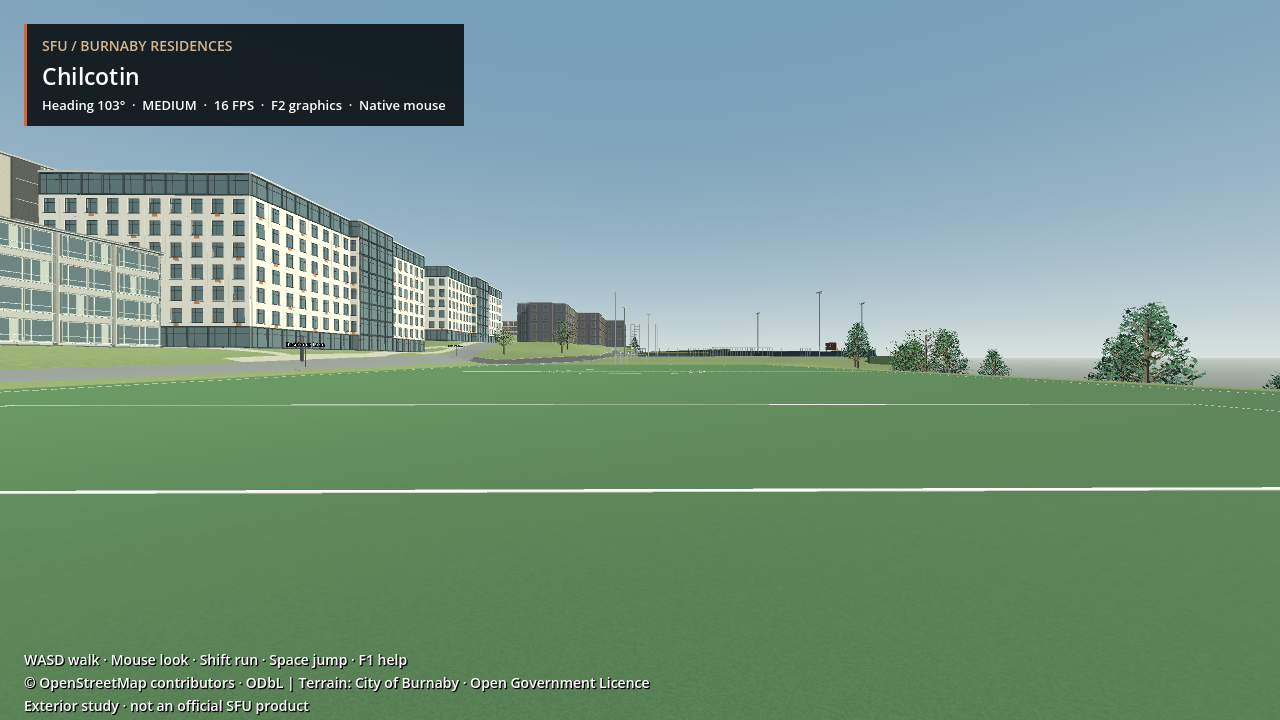
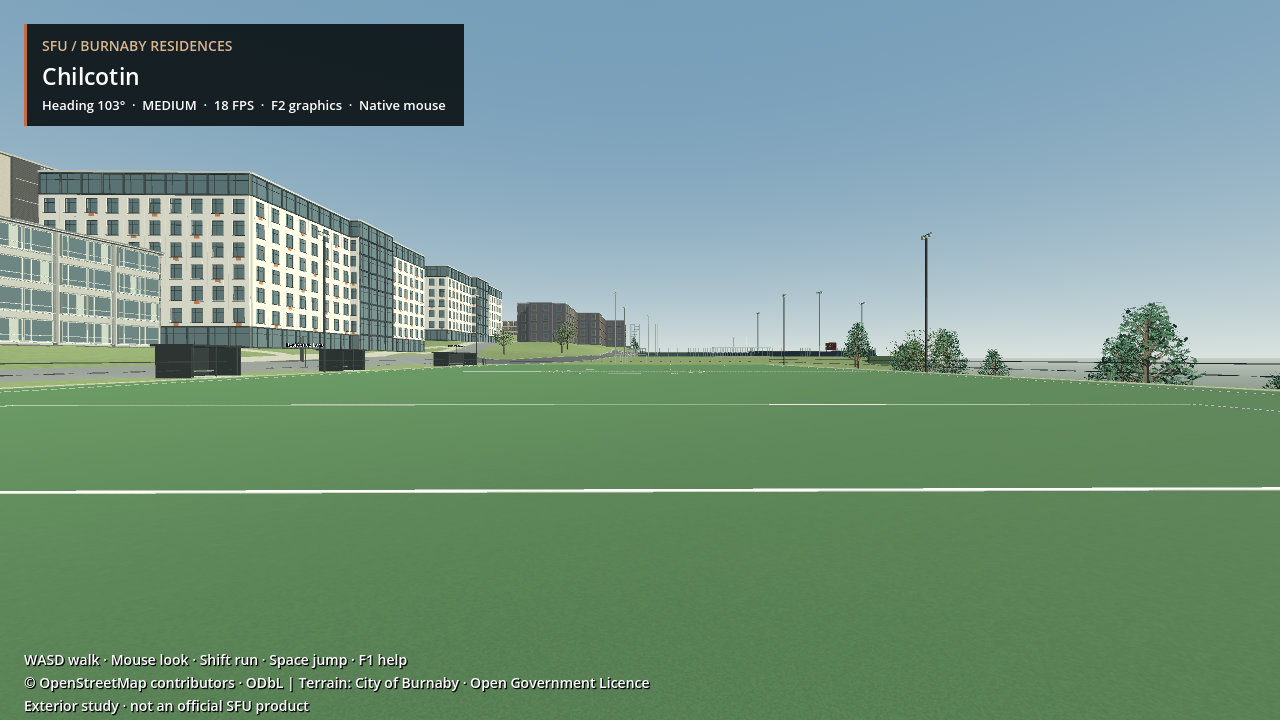
Add photo-referenced Field4 shelter, front fence and walkable apron

diff --git a/scripts/build_field4_shelter_grade.py b/scripts/build_field4_shelter_grade.py
@@ -1,0 +1,23 @@
+"""Separate reversible finish grade for Field4 sideline shelters, dimensions estimated."""
+import json,math
+from pathlib import Path
+from build_parking_grade import distance
+r=Path(__file__).resolve().parents[1];g=json.loads((r/'game/data/terrain_grid.json').read_text());g['heights']+=json.loads((r/'game/data/field2_terrain_extension.json').read_text())['heights'];g['depth']=len(g['heights'])//g['width']
+for name in ['parking_grade','beedie_grade','field4_grade','field2_grade']:
+ for k,h in json.loads((r/'game/data'/f'{name}.json').read_text())['changes']:g['heights'][k]=h
+field=json.loads((r/'game/data/field4.json').read_text());a=field['points'][3];b=field['points'][2];length=math.dist(a,b);u=[(b[i]-a[i])/length for i in range(2)];v=[-u[1],u[0]]
+polys=[]
+for along,size in [(46,5),(67,5),(108,17)]:
+ polys.append([[a[i]+u[i]*(along+x)+v[i]*z for i in range(2)] for x,z in [(-size/2-0.3,-6.8),(size/2+0.3,-6.8),(size/2+0.3,-1.3),(-size/2-0.3,-1.3)]])
+buildings=json.loads((r/'game/data/buildings.json').read_text());changes=[]
+for k,h in enumerate(g['heights']):
+ x=g['origin_x']+k%g['width']*g['step'];z=g['origin_z']+k//g['width']*g['step']
+ if not -10<x<85 or not 62<z<100:continue
+ d=min(distance(x,z,p) for p in polys)
+ if d>=5:continue
+ bd=min(distance(x,z,b['footprint']) for b in buildings)
+ if bd<=4:continue
+ t=max(0,min(1,1-d/5));t=t*t*(3-2*t);guard=max(0,min(1,(bd-4)/3));t*=guard*guard*(3-2*guard)
+ changes.append([k,round(h+(field['height_estimate_m']-h)*t,4)])
+(r/'game/data/field4_shelter_grade.json').write_text(json.dumps({'status':'estimated sideline grading, original grid/pads untouched','changes':changes},separators=(',',':')))
+print('Shelter grading samples',len(changes))

diff --git a/docs/PHASE2_COMPLETION_AUDIT.md b/docs/PHASE2_COMPLETION_AUDIT.md
@@ -1,0 +1,35 @@
+# Consolidated exterior completion audit — 2026-10-18
+
+Latest user instruction: work through all deferred remarks; preserve accepted geography, approved East/West and townhouse architecture, exact Godot/GDScript/Compatibility/WSL2 stack, working first-person mouse. This audit reconciles historical notes with current code; old pending wording is not proof something remains undone. Check off only after implementation and verification. See individual photo-review documents for evidence, uncertainty and licensing.
+
+| Item | Actual baseline / remaining action | State |
+|---|---|---|
+| Mouse, infinite rotation, fullscreen primary monitor | User confirmed working; preserve host adapter and movement forwarding | Preserve |
+| Phase1 promotion / obsolete Markdown cleanup | Already completed, rollback and external backups retained | Complete |
+| Terrain smoothness / original hillside | Source-based smoothing and local grades implemented; refine abrupt forecourts and approaches without global flattening | Partial |
+| Field4 black walk-in shelter | Exact residence-side structure identification; panorama shows long dark end shelter and smaller central booths | Research then implement |
+| Field4 realism | Mapped turf/goals only; sideline concrete, fence, floodlights, seating/shelters, secondary markings, tree edge missing | Pending |
+| Field2 realism | Mapped grass/H goals; strengthen photo match, surroundings and approaches; American-yard markings unconfirmed | Partial |
+| Beedie realism | Outline/infield/backstop first pass; sunken dugouts, benches/bleachers, bullpen, batting cage, fixture/track geometry | Partial |
+| North longitudinal gallery | Correct under long courtyard wing; repeat eye-level inside-wall/corner audit, no exposed building voids | Recheck |
+| North to Dining Commons | NEW user clarification: direct stair connection at end of longitudinal gallery to Dining Commons; preserve closed building interiors | Pending |
+| North gallery to parking | Separate connection still missing; do not confuse with Dining link or Shadbolt courtyard stair photo | Pending |
+| North surrounding details | Red service doors, roof/fins, curved beds, pavers, drains, stairs/rails, door/sign localization | Partial |
+| Courtyard east portico | Implemented and traversable; forecourt remains crude grassy slope | Partial |
+| Courtyard inner gallery | Lower columns/soffit/open supported ground level, distinct from tall east portico | Pending |
+| Courtyard West Mall bridge | User-confirmed direction; exact tie-in/grade not yet located; no existing dedicated bridge to merely move | Pending |
+| Courtyard landscape/upper details | Paved plaza/curbs/planters/trees, lowrise terrace/penthouse and precise entrance mapping | Pending |
+| Shell surrounds | Timber fence/concrete round tables implemented; timber seating if confirmed, stairs/landings, pergola/annex/trees | Partial |
+| Shell grade/entry | Four total vs three visible floors, entry along long frontage, corner screen localization | Unresolved |
+| McTaggart approach | Descending stairs, recessed entrance/connector/canopy, grade exposure and paving | Pending |
+| East/West site | Approved facades frozen; verify external stairs and basketball court between towers, current paving | Pending |
+| Townhouse contact | Foundation/porch footings implemented; refine approach grades; preserve approved family | Partial |
+| Townhouse plan differences |11-house door mapping/common-room annex and laundry attachments not implemented; block identity needed | Deferred evidence |
+| Hamilton | Distinct model implemented; secondary east door, exact portico geometry and ground plan remain uncertain | Partial |
+| Dining architecture | Old/new distinct wings implemented; current as-built finish, roof steps/joint, screens/service doors need comparison | Partial |
+| Parking | Full preconstruction lot grade and CC0 cars implemented; verify curb/aisle/vegetation/perimeter realism | Partial |
+| General outdoor materials | Concrete/pavers/asphalt overrides implemented; drainage channels, retaining walls, transitions still incomplete | Partial |
+| Vegetation | Mapped sparse stylized plants; forest edges, species/form and material realism need improvement | Partial |
+| Performance | GTX1650 Compatibility runs; broad views slow, prior captures may share GPU with another game instance | Measure/optimize |
+
+Source audit: all docs/*.md searched for pending/remaining/unresolved/unknown/next markers; read latest HANDOFF plus SITE_WALK_CORRECTIONS, PHOTO_REFINEMENT_BACKLOG, NORTH_PLAN_AUDIT, LANDSCAPE_PHOTO_REVIEW, DINING_REVIEW and relevant runtime modules. Historical plans/floor-count conflicts remain uncertainties rather than authorization to replace approved models. No interiors, NPCs, online API or unrelated gameplay.

diff --git a/docs/PHASE2_HANDOFF.md b/docs/PHASE2_HANDOFF.md
@@ -42,3 +42,8 @@ Sources found in targeted search (not yet visually reviewed in this follow-up):
 Broad image search returned mostly OTHER venues/commercial dugouts; rejected as identity evidence. None downloaded or modeled. Field2/Beedie need equally specific comparisons, not generic sports assets.
 
 Actual host usage94% consumed during this follow-up. Saved research/priority correction only; runtime unchanged from2f8385f, so no repeated game tests needed. Continue next user-started window from this section. Earlier218 physics/389 route passing checkpoint still applies; it establishes playability, not visual fidelity.
+
+## Verified Field4 shelter checkpoint — 2026-10-18
+User identified the LONG dark shelter at the eastern/residence-facing end near Beedie, and confirmed a fence in front toward the pitch. Implemented an enterable dark-roof shelter with bench, rear/end closure, concrete apron, front fence and access gap; smaller sideline shelters, perimeter fence/paving and light poles provide photo-supported context. Dimensions and exact gate/fixture positions remain estimates, not a survey. Historical 2015 aerial and 2012 southeast photo were individually inspected; their obsolete residences were not reused. URL-only provenance is in Sports_Fields/ONLINE_REFERENCES.json.
+A separate reversible 214-sample shelter grading layer blends the apron into field level, protecting buildings and original source elevations. All original routes remain unchanged. Full verify_game.sh PASS: 221 physics checks, 376 terrain parity samples, 394 route checkpoints, zero failures; family validator passes. Final GPU capture field4_3.png inspected with front fence; Compatibility/GTX1650. Broad-view capture around18fps remains a performance concern, not a completed optimization claim.
+Next: activate and validate prepared NorthDiningStair.gd (currently NOT active), then consider SportsWoodland.gd (also NOT active). Neither preparation is a finished feature. Consolidated outstanding user remarks: PHASE2_COMPLETION_AUDIT.md. East/West approved architecture, source grid, building XZ and mouse controls unchanged.

diff --git a/docs/PHASE2_RESIDENCE_FIELDS.md b/docs/PHASE2_RESIDENCE_FIELDS.md
@@ -32,3 +32,8 @@ Sources found in targeted search (not yet visually reviewed in this follow-up):
 Broad image search returned mostly OTHER venues/commercial dugouts; rejected as identity evidence. None downloaded or modeled. Field2/Beedie need equally specific comparisons, not generic sports assets.
 
 Actual host usage94% consumed during this follow-up. Saved research/priority correction only; runtime unchanged from2f8385f, so no repeated game tests needed. Continue next user-started window from this section. Earlier218 physics/389 route passing checkpoint still applies; it establishes playability, not visual fidelity.
+
+## Verified Field4 shelter checkpoint — 2026-10-18
+User identified the LONG dark shelter at the eastern/residence-facing end near Beedie, and confirmed a fence in front toward the pitch. Implemented an enterable dark-roof shelter with bench, rear/end closure, concrete apron, front fence and access gap; smaller sideline shelters, perimeter fence/paving and light poles provide photo-supported context. Dimensions and exact gate/fixture positions remain estimates, not a survey. Historical 2015 aerial and 2012 southeast photo were individually inspected; their obsolete residences were not reused. URL-only provenance is in Sports_Fields/ONLINE_REFERENCES.json.
+A separate reversible 214-sample shelter grading layer blends the apron into field level, protecting buildings and original source elevations. All original routes remain unchanged. Full verify_game.sh PASS: 221 physics checks, 376 terrain parity samples, 394 route checkpoints, zero failures; family validator passes. Final GPU capture field4_3.png inspected with front fence; Compatibility/GTX1650. Broad-view capture around18fps remains a performance concern, not a completed optimization claim.
+Next: activate and validate prepared NorthDiningStair.gd (currently NOT active), then consider SportsWoodland.gd (also NOT active). Neither preparation is a finished feature. Consolidated outstanding user remarks: PHASE2_COMPLETION_AUDIT.md. East/West approved architecture, source grid, building XZ and mouse controls unchanged.

diff --git a/docs/PHASE2_STATUS.md b/docs/PHASE2_STATUS.md
@@ -46,3 +46,8 @@ Sources found in targeted search (not yet visually reviewed in this follow-up):
 Broad image search returned mostly OTHER venues/commercial dugouts; rejected as identity evidence. None downloaded or modeled. Field2/Beedie need equally specific comparisons, not generic sports assets.
 
 Actual host usage94% consumed during this follow-up. Saved research/priority correction only; runtime unchanged from2f8385f, so no repeated game tests needed. Continue next user-started window from this section. Earlier218 physics/389 route passing checkpoint still applies; it establishes playability, not visual fidelity.
+
+## Verified Field4 shelter checkpoint — 2026-10-18
+User identified the LONG dark shelter at the eastern/residence-facing end near Beedie, and confirmed a fence in front toward the pitch. Implemented an enterable dark-roof shelter with bench, rear/end closure, concrete apron, front fence and access gap; smaller sideline shelters, perimeter fence/paving and light poles provide photo-supported context. Dimensions and exact gate/fixture positions remain estimates, not a survey. Historical 2015 aerial and 2012 southeast photo were individually inspected; their obsolete residences were not reused. URL-only provenance is in Sports_Fields/ONLINE_REFERENCES.json.
+A separate reversible 214-sample shelter grading layer blends the apron into field level, protecting buildings and original source elevations. All original routes remain unchanged. Full verify_game.sh PASS: 221 physics checks, 376 terrain parity samples, 394 route checkpoints, zero failures; family validator passes. Final GPU capture field4_3.png inspected with front fence; Compatibility/GTX1650. Broad-view capture around18fps remains a performance concern, not a completed optimization claim.
+Next: activate and validate prepared NorthDiningStair.gd (currently NOT active), then consider SportsWoodland.gd (also NOT active). Neither preparation is a finished feature. Consolidated outstanding user remarks: PHASE2_COMPLETION_AUDIT.md. East/West approved architecture, source grid, building XZ and mouse controls unchanged.
